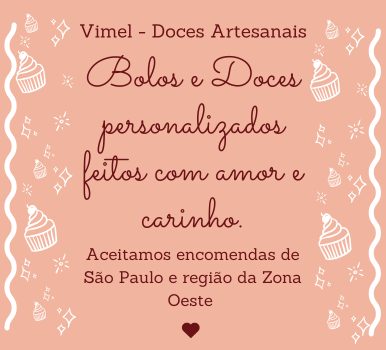
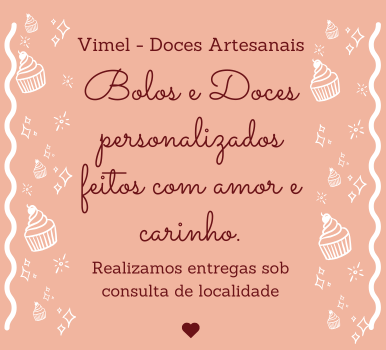
ajuste no index

Changed region(s): [[0.1865, 0.0571, 0.8083, 0.6857], [0.2176, 0.7143, 0.7772, 0.8857], [0.9326, 0.0571, 0.9948, 0.9714]]

diff --git a/index.html b/index.html
@@ -142,7 +142,7 @@
       Barletta, perfeitos para suas festas e momentos especiais.
     </p>
     <p class="contact-text">
-      <strong>Aceitamos encomendas sob consulta de localidade.</strong>
+      <strong>Realizamos entregas sob consulta de localidade.</strong>
     </p>
     <a class="whatsapp-button"
       href="https://wa.me/5511974371798?text=Olá%20Vilma!%20Encontrei%20você%20no%20site%20e%20gostaria%20de%20mais%20informações%20sobre%20os%20bolos%20personalizados."
